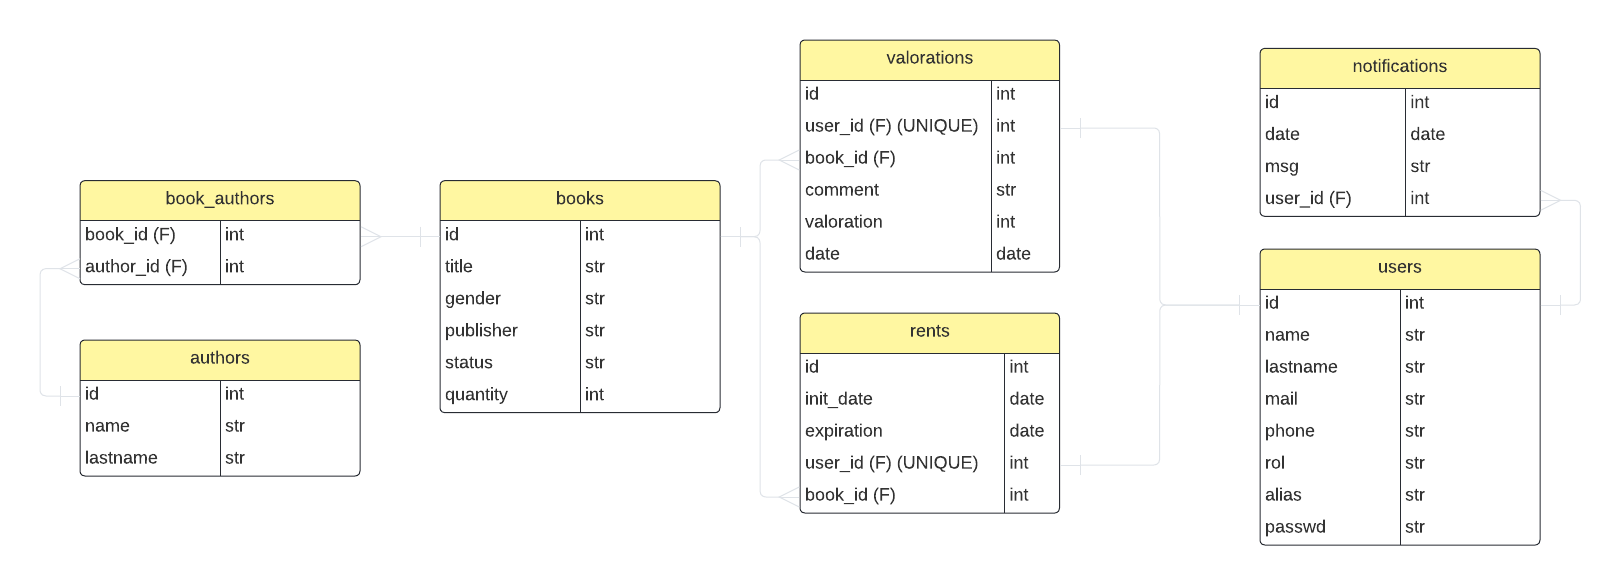
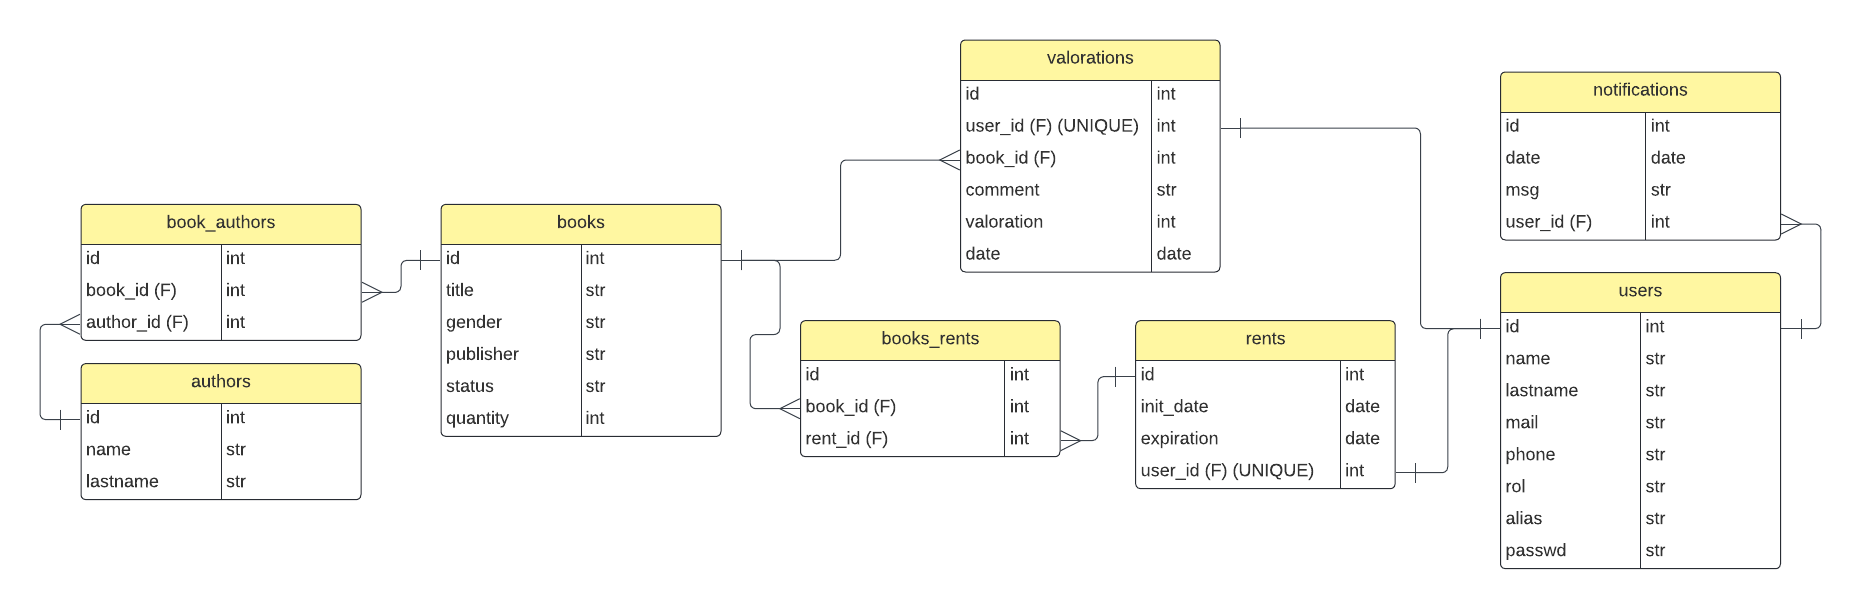
Fix N:M relations medium tables.

diff --git a/backend/main/models/user.py b/backend/main/models/user.py
@@ -2,14 +2,14 @@ from .. import db
 
 class User(db.Model):
     __tablename__ = 'users'
-    id = db.Column(db.Integer, primary_key = True)
+    id = db.Column(db.Integer, primary_key = True, unique=True, autoincrement=True)
     name = db.Column(db.String(100), nullable = False)
-    lastname = db.Column(db.String(100), nullable = False)
+    lastname = db.Column(db.String(100))
     mail = db.Column(db.String(100), nullable = False)
-    phone = db.Column(db.Integer,nullable = False)
-    rol = db.Column(db.String(100),nullable = False)
-    alias = db.Column(db.String,nullable = False)
-    passwd = db.Column(db.String,nullable = False)
+    phone = db.Column(db.Integer)
+    rol = db.Column(db.String(100), nullable = False)
+    alias = db.Column(db.String)
+    passwd = db.Column(db.String, nullable = False)
     # Relation 1:1 (1 user : 1 valoration), User is Parent
     valoration = db.relationship('Valoration', uselist=False, back_populates='user', cascade='all, delete-orphan')
     # Relation 1:1 (1 user : 1 rent), User is Parent
@@ -34,8 +34,8 @@ class User(db.Model):
         return user_json
 
     def to_json_complete(self):
-        rents=[rents.to_json() for rent in self.rents]
-        valorations=[valorations.to_json() for valoration in self.valorations]
+        rent=self.rent
+        valoration=self.valoration
         notifications=[notifications.to_json() for notification in self.notifications]
         user_json = {
             'id': self.id,
@@ -46,8 +46,8 @@ class User(db.Model):
             'rol': str(self.rol),
             'alias': str(self.alias),
             'passwd': str(self.passwd),
-            'rents': rents,
-            'valorations': valorations,
+            'rent': rent,
+            'valoration': valoration,
             'notifications': notifications
         }
         return user_json

diff --git a/backend/main/models/author.py b/backend/main/models/author.py
@@ -2,13 +2,14 @@ from .. import db
 
 books_authors = db.Table(
     'books_authors',
-    db.Column('book_id',db.Integer,db.ForeignKey('books.id'),primary_key=True),
-    db.Column('author_id',db.Integer,db.ForeignKey('authors.id'),primary_key=True)
+    db.Column('id', db.Integer, primary_key=True, unique=True, autoincrement=True),
+    db.Column('book_id',db.Integer,db.ForeignKey('books.id')),
+    db.Column('author_id',db.Integer,db.ForeignKey('authors.id'))
 )
 
 class Author(db.Model):
     __tablename__ = 'authors'
-    id = db.Column(db.Integer, primary_key=True)
+    id = db.Column(db.Integer, primary_key=True, unique=True, autoincrement=True)
     name = db.Column(db.String(100), nullable=False)
     lastname = db.Column(db.String(100), nullable=False)
     # Relation N:M (N authors : M books), Medium table books_authors

diff --git a/backend/main/models/book.py b/backend/main/models/book.py
@@ -2,13 +2,14 @@ from .. import db
 
 books_rents = db.Table(
     'books_rents',
-    db.Column('book_id',db.Integer, db.ForeignKey('books.id'), primary_key=True),
-    db.Column('rent_id',db.Integer, db.ForeignKey('rents.id'), primary_key=True),
+    db.Column('id', db.Integer, primary_key=True, unique=True, autoincrement=True),
+    db.Column('book_id',db.Integer, db.ForeignKey('books.id')),
+    db.Column('rent_id',db.Integer, db.ForeignKey('rents.id')),
 )
 
 class Book(db.Model):
     __tablename__ = 'books'
-    id = db.Column(db.Integer, primary_key=True)
+    id = db.Column(db.Integer, primary_key=True, unique=True, autoincrement=True)
     title = db.Column(db.String(100), nullable=False)
     gender = db.Column(db.String(100), nullable=False)
     publisher = db.Column(db.String(100), nullable=False)

diff --git a/backend/main/models/valoration.py b/backend/main/models/valoration.py
@@ -4,7 +4,7 @@ from datetime import datetime
 
 class Valoration(db.Model):
     __tablename__ = 'valorations'
-    id = db.Column(db.Integer, primary_key = True)
+    id = db.Column(db.Integer, primary_key = True, unique=True, autoincrement=True)
     comment = db.Column(db.String(250), nullable = True)
     valoration = db.Column(db.Integer, nullable = False)
     date = db.Column(db.DateTime, nullable = False)

diff --git a/backend/main/models/notification.py b/backend/main/models/notification.py
@@ -4,7 +4,7 @@ from datetime import datetime
 
 class Notification(db.Model):
     __tablename__ = 'notifications'
-    id = db.Column(db.Integer, primary_key=True)
+    id = db.Column(db.Integer, primary_key=True, unique=True, autoincrement=True)
     date = db.Column(db.DateTime, nullable=False)
     msg = db.Column(db.String(250), nullable=False)
     # Relation 1:N (1 user : N notifications), User is parent

diff --git a/backend/main/models/rent.py b/backend/main/models/rent.py
@@ -4,7 +4,7 @@ from datetime import datetime
 
 class Rent(db.Model):
     __tablename__ = 'rents'
-    id = db.Column(db.Integer, primary_key=True)
+    id = db.Column(db.Integer, primary_key=True, unique=True, autoincrement=True)
     init_date = db.Column(db.DateTime, nullable=False)
     expiration = db.Column(db.DateTime, nullable=False)
     # Relation 1:1 (1 user : 1 rent), User is Parent
